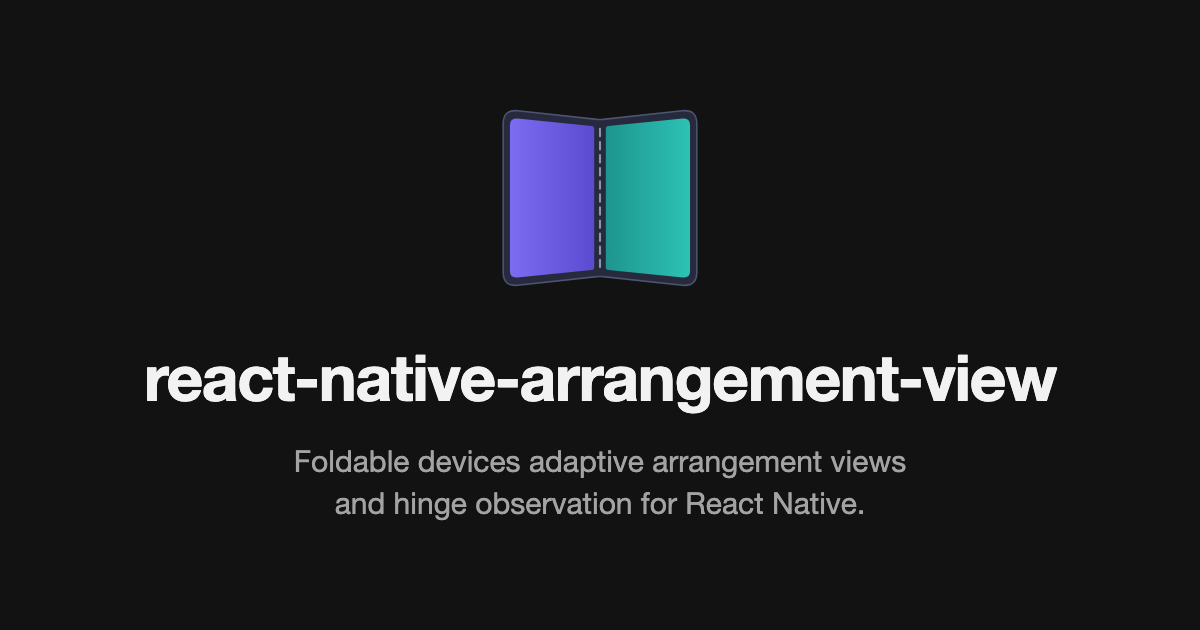
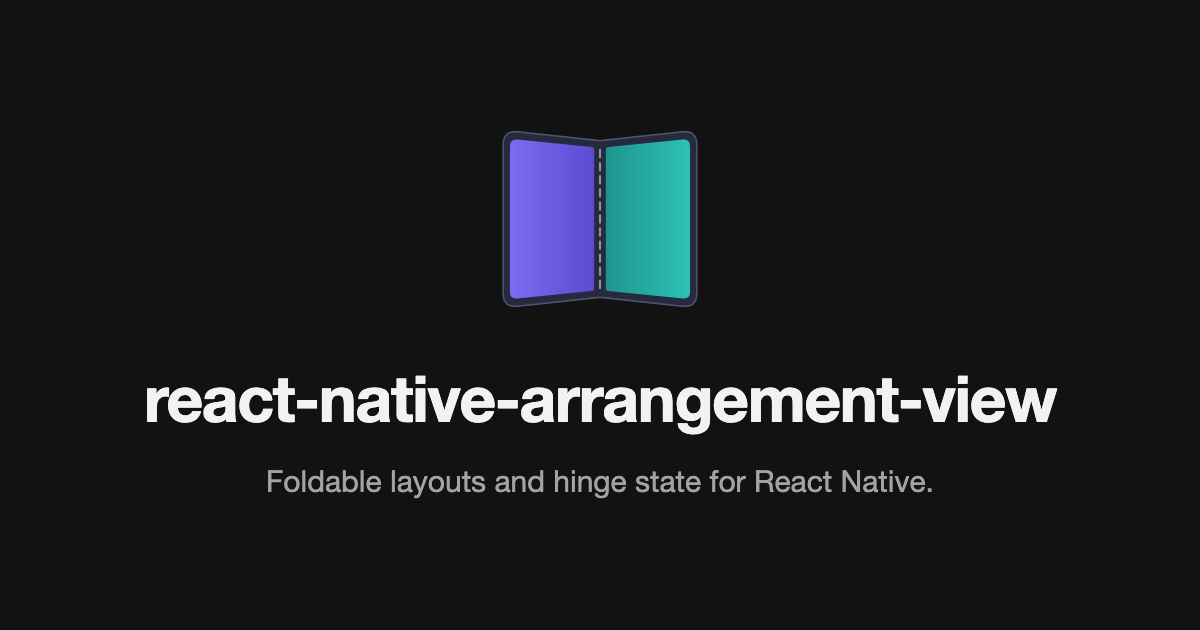
Improve search and agent discoverability of the docs (#32)

diff --git a/docs/rspress.config.ts b/docs/rspress.config.ts
@@ -1,15 +1,14 @@
 import fs from 'node:fs';
 import path from 'node:path';
 import { pathToFileURL } from 'node:url';
-import { defineConfig } from '@rspress/core';
+import { defineConfig, type RspressPlugin } from '@rspress/core';
 
 const root = path.join(import.meta.dirname, 'docs');
 const assets = path.join(import.meta.dirname, 'public');
 const repo = 'https://github.com/thiagobrez/react-native-arrangement-view';
 const site = 'https://thiagobrez.github.io/react-native-arrangement-view/';
 const title = 'react-native-arrangement-view';
-const description =
-  'Foldable devices adaptive arrangement views and hinge observation for React Native.';
+const description = 'Foldable layouts and hinge state for React Native.';
 
 // Each folder in docs/ documents a minor version, newest first.
 const versions = fs
@@ -29,6 +28,41 @@ if (!versions.includes(latest)) {
   throw new Error(`${version} is released, but docs/${latest}/ doesn't exist.`);
 }
 
+/** The address a page is deployed at. Routes don't include the base path. */
+function pageUrl(routePath: string) {
+  const file = routePath.endsWith('/') ? routePath : `${routePath}.html`;
+  return new URL(file.slice(1), site).href;
+}
+
+/**
+ * Lists the released version's pages for search engines. The other versions
+ * repeat them, so they are left out here and marked `noindex` in `head`.
+ */
+function sitemap(): RspressPlugin {
+  const urls = new Set<string>();
+
+  return {
+    name: 'sitemap',
+    extendPageData(page, isProd) {
+      if (isProd && page.version === latest) {
+        urls.add(pageUrl(page.routePath));
+      }
+    },
+    afterBuild(_config, isProd) {
+      if (!isProd) {
+        return;
+      }
+      const entries = [...urls]
+        .sort()
+        .map((url) => `<url><loc>${url}</loc></url>`);
+      fs.writeFileSync(
+        path.join(import.meta.dirname, 'doc_build/sitemap.xml'),
+        `<?xml version="1.0" encoding="UTF-8"?><urlset xmlns="http://www.sitemaps.org/schemas/sitemap/0.9">${entries.join('')}</urlset>`
+      );
+    },
+  };
+}
+
 export default defineConfig({
   root,
   base: '/react-native-arrangement-view/',
@@ -46,7 +80,19 @@ export default defineConfig({
     ['meta', { property: 'og:image:width', content: '1200' }],
     ['meta', { property: 'og:image:height', content: '630' }],
     ['meta', { name: 'twitter:card', content: 'summary_large_image' }],
+    // Only the released version's pages are indexed, each under one address.
+    (route) =>
+      route.version === latest
+        ? ['link', { rel: 'canonical', href: pageUrl(route.routePath) }]
+        : ['meta', { name: 'robots', content: 'noindex, follow' }],
+    (route) =>
+      route.version === latest
+        ? ['meta', { property: 'og:url', content: pageUrl(route.routePath) }]
+        : undefined,
   ],
+  // Writes llms.txt, llms-full.txt and a Markdown copy of each page, for agents.
+  llms: true,
+  plugins: [sitemap()],
   globalStyles: path.join(import.meta.dirname, 'styles/index.css'),
   multiVersion: { default: latest, versions },
   builderConfig: {

diff --git a/docs/docs/v0.3/guide/how-panes-are-arranged.md b/docs/docs/v0.3/guide/how-panes-are-arranged.md
@@ -1,3 +1,7 @@
+---
+description: "The rules ArrangementView follows to place two panes around a foldable's hinge on iOS and Android: window size, posture, axes and the primary pane's side."
+---
+
 # How panes are arranged
 
 Each platform follows its own conventions. iOS delegates arrangement to SwiftUI's `ArrangementView`. Android has no system equivalent, so the library applies Material's adaptive layout rules, the ones behind Compose's `calculatePaneScaffoldDirective`, to the window size and the fold that Jetpack WindowManager reports.

diff --git a/docs/docs/v0.4/guide/how-panes-are-arranged.md b/docs/docs/v0.4/guide/how-panes-are-arranged.md
@@ -1,3 +1,7 @@
+---
+description: "The rules ArrangementView follows to place two panes around a foldable's hinge on iOS and Android: window size, posture, axes and the primary pane's side."
+---
+
 # How panes are arranged
 
 Each platform follows its own conventions. iOS delegates arrangement to SwiftUI's `ArrangementView`. Android has no system equivalent, so the library applies Material's adaptive layout rules, the ones behind Compose's `calculatePaneScaffoldDirective`, to the window size and the fold that Jetpack WindowManager reports.

diff --git a/docs/docs/v0.3/api/use-arrangement-layout.md b/docs/docs/v0.3/api/use-arrangement-layout.md
@@ -1,3 +1,7 @@
+---
+description: useArrangementLayout tells a React Native component whether the secondary pane is on screen, and whether the panes are side by side, stacked or overlapping.
+---
+
 # useArrangementLayout
 
 A hook that returns the current [`ArrangementLayout`](./use-arrangement-layout#arrangementlayout) and subscribes the component to updates. It is useful for adapting a pane's content to what the arrangement shows, such as whether the secondary pane is on screen.

diff --git a/docs/docs/v0.4/api/use-arrangement-layout.md b/docs/docs/v0.4/api/use-arrangement-layout.md
@@ -1,3 +1,7 @@
+---
+description: useArrangementLayout tells a React Native component whether the secondary pane is on screen, and whether the panes are side by side, stacked or overlapping.
+---
+
 # useArrangementLayout
 
 A hook that returns the current [`ArrangementLayout`](./use-arrangement-layout#arrangementlayout) and subscribes the component to updates. It is useful for adapting a pane's content to what the arrangement shows, such as whether the secondary pane is on screen.

diff --git a/docs/docs/v0.4/api/use-hinge-change.md b/docs/docs/v0.4/api/use-hinge-change.md
@@ -1,3 +1,7 @@
+---
+description: useHingeChange is a React Native hook that returns a foldable's hinge angle, and whether the device is closed, partially open or fully open.
+---
+
 # useHingeChange
 
 A hook to consume the hinge state changes. Call the hook inside a [`HingeObserver`](./hinge-observer) or an [`ArrangementView`](./arrangement-view). It observes whichever of the two is nearer.

diff --git a/docs/docs/v0.3/index.md b/docs/docs/v0.3/index.md
@@ -1,9 +1,10 @@
 ---
 pageType: home
+titleSuffix: Foldable layouts and hinge state for React Native
 
 hero:
   name: react-native-arrangement-view
-  tagline: Foldable devices adaptive arrangement views and hinge observation for React Native.
+  tagline: Foldable layouts and hinge state for React Native.
   image:
     src: /logo/logo.svg
     alt: react-native-arrangement-view logo

diff --git a/docs/docs/v0.4/index.md b/docs/docs/v0.4/index.md
@@ -1,9 +1,10 @@
 ---
 pageType: home
+titleSuffix: Foldable layouts and hinge state for React Native
 
 hero:
   name: react-native-arrangement-view
-  tagline: Foldable devices adaptive arrangement views and hinge observation for React Native.
+  tagline: Foldable layouts and hinge state for React Native.
   image:
     src: /logo/logo.svg
     alt: react-native-arrangement-view logo

diff --git a/docs/docs/v0.3/api/arrangement-view.md b/docs/docs/v0.3/api/arrangement-view.md
@@ -1,3 +1,7 @@
+---
+description: ArrangementView is a React Native component that arranges a primary and a secondary pane side by side, stacked or overlaid, around a foldable's hinge.
+---
+
 # ArrangementView
 
 The container component where you render your primary and secondary panes. It arranges them side by side or stacked, depending on the platform, device, and orientation.

diff --git a/docs/docs/v0.4/api/arrangement-view.md b/docs/docs/v0.4/api/arrangement-view.md
@@ -1,3 +1,7 @@
+---
+description: ArrangementView is a React Native component that arranges a primary and a secondary pane side by side, stacked or overlaid, around a foldable's hinge.
+---
+
 # ArrangementView
 
 The container component where you render your primary and secondary panes. It arranges them side by side or stacked, depending on the platform, device, and orientation.

diff --git a/docs/docs/v0.3/api/use-hinge-change.md b/docs/docs/v0.3/api/use-hinge-change.md
@@ -1,3 +1,7 @@
+---
+description: useHingeChange is a React Native hook that returns a foldable's hinge angle, and whether the device is closed, partially open or fully open.
+---
+
 # useHingeChange
 
 A hook to consume the hinge state changes. Call the hook inside an [`ArrangementView`](./arrangement-view). It observes the nearest one.

diff --git a/docs/docs/v0.4/api/hinge-observer.md b/docs/docs/v0.4/api/hinge-observer.md
@@ -1,3 +1,7 @@
+---
+description: HingeObserver provides a foldable's hinge angle and status to every screen of a React Native app, outside an ArrangementView.
+---
+
 # HingeObserver
 
 The provider for hinge state. Use [`useHingeChange`](./use-hinge-change) on any children to consume the current hinge state and subscribe to changes.
